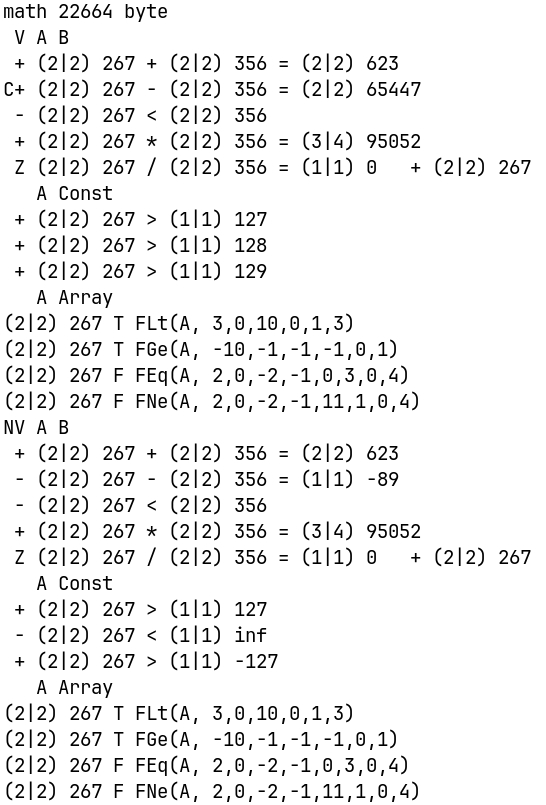
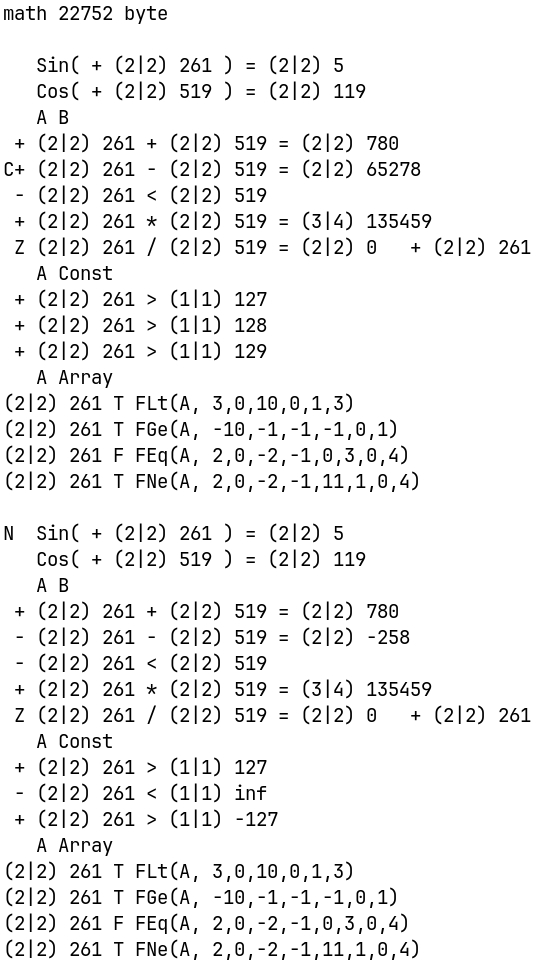
v80.0

diff --git a/main.c b/main.c
@@ -11,7 +11,7 @@
 #define Obe    0    // вывод на экран {0} little endian, иначе big endian
 #define NoSign 0    // беззнаковое представление
 #define Sign   1    // знаковое представление
-#define MatV   1    // возможность увеличения разрядности
+#define MatV   0    // возможность увеличения разрядности
 #define m      128  // максимальное число атомов в числах
 
 anu la,lb;
@@ -24,17 +24,19 @@ void Num(anu s, an a) { anu ns,t[m]; if (s > 7) printf(" %d|? ", s + 1);
         else if (ns) printf("%u ", *(uint16_t*)a); else printf("%u ", *(uint8_t*)a); } } } }
 void Show(char s) { Flong(Mat.lb,la); Mat.C = 0; if (s == '+') FAdd(Mat.R, Mat.A); else if (s == '-') FSub(Mat.R, Mat.A);
   else if (s == '*') FMul(Mat.R, Mat.A); else if (s == '/') FDiv(Mat.R, Mat.E, Mat.A); else if (s == '?') Ftst(Mat.A);
-  else { Ftst(Mat.A, 127); } if (s == '?' || s == 'c') printf(" %c ", Mat.TF ? 'Z':Mat.TN ? '-':'+');
-  else { printf("%c%c ", Mat.C ? 'C':' ', Mat.F ? Mat.N ? 'I':'Z':Mat.N ? '-':'+'); } Num(la, Mat.A);
-  if (s == '?' || s == 'c') printf("%c ", Mat.TF ? '=':Mat.TN ? '<':'>'); else {
-    if (s == 'c') printf("? "); else printf("%c ", s); } Num(Mat.lb, Mat.b); if (s < '?') { printf("= "); Num(Mat.l, Mat.R); }
+  else if (s == '0') FSIN(Mat.R, la, Mat.A); else if (s == '1') FCOS(Mat.R, lb, Mat.B); else Ftst(Mat.A, 127);
+  if (s == '?' || s == 'c') printf(" %c ", Mat.TF ? 'Z':Mat.TN ? '-':'+'); else printf("%c%c ", Mat.C ? 'C':' ', Mat.F ? Mat.N ? 'I':'Z':Mat.N ? '-':'+');
+  if (s == '0' || s == '1') { if (s == '0') Num(la, Mat.A); else { Num(lb, Mat.B); } printf(") "); } else { Num(la, Mat.A);
+    if (s == '?' || s == 'c') printf("%c ", Mat.TF ? '=':Mat.TN ? '<':'>'); else { if (s == 'c') printf("? "); else printf("%c ", s); } Num(Mat.lb, Mat.b); }
+  if (s < '?') { printf("= "); Num(Mat.l, Mat.R); }
   if (s == '/') { printf("  %c ", Mat.Fe ? (Mat.Ne ? 'I':'Z') : (Mat.Ne ? '-':'+')); Num(Mat.le, Mat.E); } printf("\n"); }
-void Test(void) { Faddr((As)Mat.B); Flong(lb,la); anu t,i = 2; printf("%c%c A B\n", Mat.Nim ? 'N':' ', Mat.V ? 'V':' '); Show('+');
-  Show('-'); Show('?'); Show('*'); Show('/'); printf("   A Const\n"); Show('c'); while(i--) { t = *Mat.b; *Mat.b = ++t; Show('?'); }
+void Test(void) { Faddr((As)Mat.B); Flong(lb,la); anu t,i = 2; printf("\n%c%c Sin(", Mat.Nim ? 'N':' ', Mat.V ? 'V':' '); Show('0');
+  printf("   Cos("); Show('1'); printf("   A B\n"); Show('+');  Show('-'); Show('?'); Show('*'); Show('/');
+  printf("   A Const\n"); Show('c'); while(i--) { t = *Mat.b; *Mat.b = ++t; Show('?'); }
   printf("   A Array\n"); Num(la, Mat.A); printf("%c FLt(A, 3,0,10,0,1,3)\n", FLt(Mat.A, 3,0,10,0,1,3) ? 'T':'F');
   Num(la, Mat.A); printf("%c FGe(A, -10,-1,-1,-1,0,1)\n", FGe(Mat.A, -10,-1,-1,-1,0,1) ? 'T':'F');
   Num(la, Mat.A); printf("%c FEq(A, 2,0,-2,-1,0,3,0,4)\n", FEq(Mat.A, 2,0,-2,-1,0,3,0,4) ? 'T':'F');
   Num(la, Mat.A); printf("%c FNe(A, 2,0,-2,-1,11,1,0,4)\n", FNe(Mat.A, 2,0,-2,-1,11,1,0,4) ? 'T':'F'); }
 
-int main(void) { anu a[m],b[m],e[m],r[m+m]; Faddr((As)b, (As)a, (As)r, (As)e); Fini(NoSign,MatV); la = Fvbe(Mat.A, 1,11);
-  lb = Fvle(Mat.B, 100,1); Test(); Fset(Sign,MatV); la = Fmov(la, Mat.A); lb = Fmov(lb, Mat.B); Test(); return 0; }
+int main(void) { anu a[m],b[m],e[m],r[m+m]; Faddr((As)b, (As)a, (As)r, (As)e); Fini(NoSign,MatV); la = Fvbe(Mat.A, 1,5);
+  lb = Fvle(Mat.B, 7,2); Test(); Fset(Sign,MatV); la = Fmov(la, Mat.A); lb = Fmov(lb, Mat.B); Test(); return 0; }

diff --git a/math.c b/math.c
@@ -34,17 +34,14 @@ anu FOLD(anu f, an a, anu l, an b) { Mat.y = FMOV(a, l, b); Mat.q = ((Mat.x = Ma
 anu FVAR(anu f, an a, anu l, an c) { if (l--) { if (f) { FSWAP(a, l, c); return Fmov(l, a); }
     else return FMOV(a, l, c); } return Fvle(a, 0); }
 
-anu Fsin(anu s, anu x) { static anu w[] = {0,1,2,3,4,5,7,8,9,10,11,12,13,14,15,16,
+void Fsin(anu s, anu x) { static anu w[] = {0,1,2,3,4,5,7,8,9,10,11,12,13,14,15,16,
   17,18,20,21,22,23,24,25,26,27,28,29,30,31,32,33,34,35,36,37,38,39,40,41,42,43,44, 45,45,
-  46,47,48,49,50,51,52, 53,53, 54,55,56,57,58,59,59,60,61,62,63 }; Mat.x = x; Mat.y = Mat.x&63;
-  Mat.y = (Mat.x & 64) ? *(w+Mat.y)|64:*(w+Mat.y); Mat.y = (Mat.x & 128) ? 127-Mat.y:Mat.y;
-  return (s) ? -Mat.y:Mat.y; }
-void FSIN(an r, anu l, an b) { Mat.N = ((Mat.y = Fsin(*(b+l)&128,*b))&128) ? 255:0;
-  Mat.F = !Mat.y; *r = Mat.y; if (!Mat.V && Mat.l) { Mat.i = Mat.l; while(Mat.i--) *++r = Mat.N;
-    return; } Mat.l = 0; }
-void FCOS(an r, anu l, an b) { Mat.N = ((Mat.y = Fcos(*(b+l)&128,*b))&128) ? 255:0;
-  Mat.F = !Mat.y; *r = Mat.y; if (!Mat.V && Mat.l) { Mat.i = Mat.l; while(Mat.i--) *++r = Mat.N;
-    return; } Mat.l = 0; }
+  46,47,48,49,50,51,52, 53,53, 54,55,56,57,58,59,59,60,61,62,63}; Mat.x = x; Mat.y = Mat.x&63;
+  Mat.y = (Mat.x&64)|*(w+Mat.y); Mat.y = (Mat.x & 128) ? 127-Mat.y:Mat.y; Mat.y = (s) ? ~Mat.y+1:Mat.y; }
+void FSIN(an r, anu l, an b) { Fsin(Mat.Nim?*(b+l)&128:0, *b); Mat.N = (Mat.y&128) ?255:0; Mat.F = !Mat.y;
+  *r = Mat.y; Mat.l = 0; if ((Mat.i = l) && !Mat.V) { Mat.l = Mat.i; do *++r = Mat.N; while(--Mat.i); } }
+void FCOS(an r, anu l, an b) { Fsin(Mat.Nim?(*(b+l)^*b)&128:0, *b^128); Mat.N = (Mat.y&128) ? 255:0; Mat.F = !Mat.y;
+  *r = Mat.y; Mat.l = 0; if ((Mat.i = l) && !Mat.V) { Mat.l = Mat.i; do *++r = Mat.N; while(--Mat.i); } }
 
 void FTST(an a, anu l, an b) { Mat.i = Mat.l; Mat.lb = l; Mat.a = a; Mat.b = b; Mat.TF = 0;
   Mat.u = ((*(Mat.ae = Mat.a + Mat.i) & 128) && Mat.Nim) ? 255:0; Mat.j = Mat.lb;

diff --git a/README.md b/README.md
@@ -27,7 +27,7 @@
 P.s.: Блокировку убрали как только добавил сообщение о ней на главную страницу, длилась минут 20, как я заметил, и принял меры, чтобы сообщить об этом Вам. Это сообщение останется (20.09.2026 ~16.00 +7 UTF) как память, так что буду стараться вопреки невостребованности в России по данной области дабы остальной народ мог этим воспользоваться. Проанализируйте события с момента, как я вернулся в эту сферу (конец января 2026 выложен Products, готовый полностью, затем занялся Fresh в начале февраля 2026), всё это время обновлялся код и было забавно видеть на open.net новости - даже компании серьёзные - их как озарило - так что у меня нет желания и времени следить за соблюдением GPLv3 из России, если заметите нарушение лицензии, то гарантируется взаимовыгодное сотрудничество.
 
 <div align="center">
-  <h1>Результат запуска v71.3</h1>
+  <h1>Результат запуска v80.0</h1>
   
   <picture>
     <source media="(prefers-color-scheme: dark)" srcset="Plus/psb.jpeg">
@@ -97,11 +97,12 @@ typedef struct { anu Nim, V, lb, l, le, C, F, N, Fe, Ne, TF, TN,
 ```
 
 <div align="center">
-  <h2>В состав входит 56 функций:</h2>
+  <h2>В состав входит 60 функций:</h2>
 </div>
 
 - **Инициализация** — 6 функций (4 основные и 2 вспомогательные)
 - **Обработка чисел** — 10 функций (2 зеркалирования 2 копирования 6 из константы в переменную)
+- **Тригонометрия** — 4 функции (2 атомарные и 2 векторные: sin, cos на всём диапазоне значений угла)
 - **Математика** — 18 функций (5 основных и 13 для работы с константой или регистром `Mat.b`)
 - **Сравнение чисел** — 22 функции (7 основных, 8 для работы с константой или регистром `Mat.b` и 7 для работы с диапазонами или регистром `Mat.b`)
 
